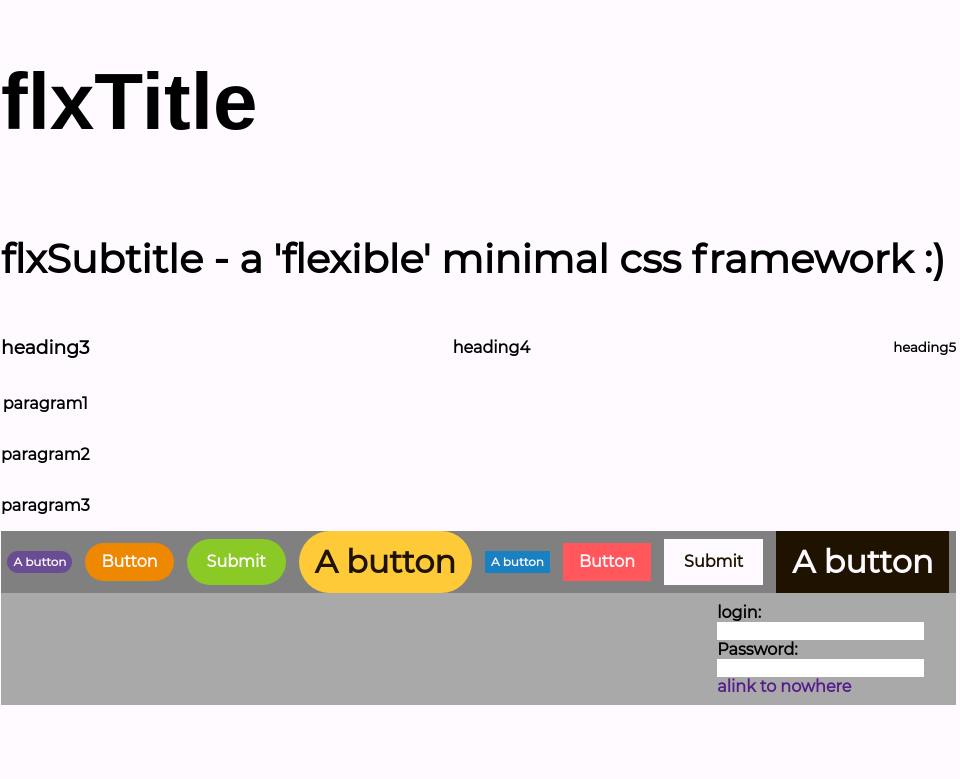
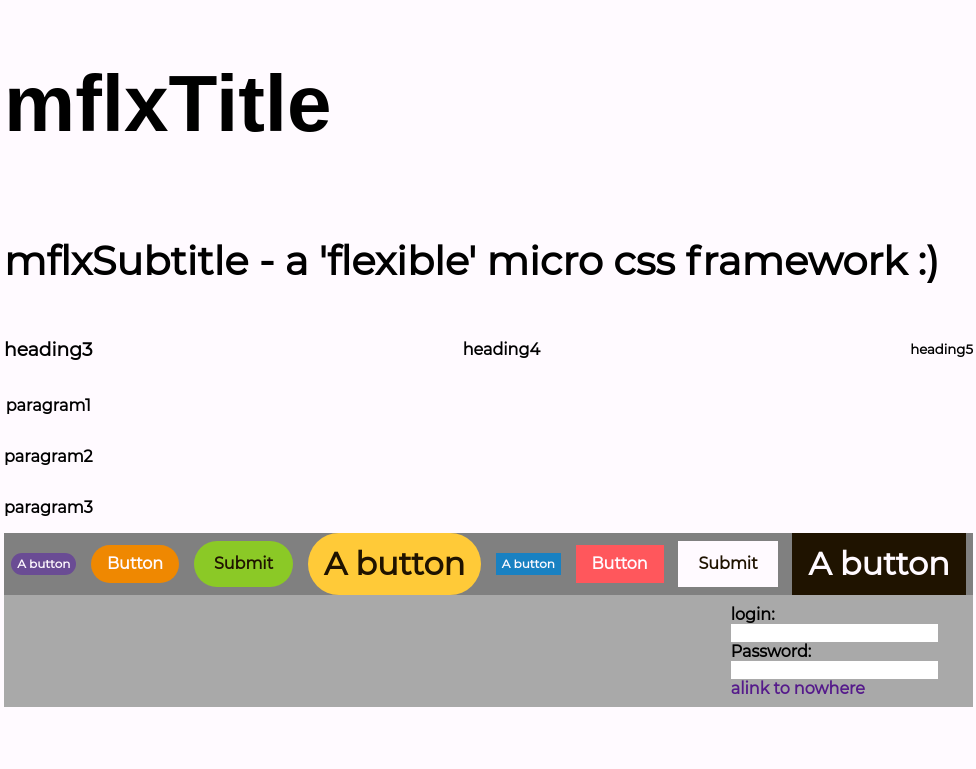
changed name to mflex for npm

diff --git a/test.html b/test.html
@@ -1,19 +1,19 @@
 <!DOCTYPE html>
 <html>
 <head>
-	<title>flx framework!</title>
+	<title>mflx framework!</title>
 	<meta charset="utf-8">
 	<style>
 @import url('https://fonts.googleapis.com/css2?family=Montserrat&display=swap');
 </style>
-	<link rel="stylesheet" type="text/css" href="css/flx.css">
+	<link rel="stylesheet" type="text/css" href="css/mflx.css">
 </head>
 <body class="white">
 	<div class="flx(wrap) space-between f-space-between is-12 ">
 		<div class="flx(wrap) space-between middle is-10 ">
 			<div class="flx(wrap,column)">
-				<h1>flxTitle</h1>
-				<h2>flxSubtitle - a 'flexible' minimal css framework :)</h2>
+				<h1>mflxTitle</h1>
+				<h2>mflxSubtitle - a 'flexible' micro css framework :)</h2>
 			</div>
 			
 			<h3>heading3</h3>

diff --git a/css/mflx.css b/css/mflx.css
@@ -283,7 +283,7 @@ a:link {
 
 .is-success {
   background-color: var(--success);
-  color: var(--white); }
+  color: var(--black); }
 
 .is-success:hover {
   background-color: #85c125; }

diff --git a/scss/mflx.scss b/scss/mflx.scss
@@ -352,7 +352,7 @@ a:link{
 }
 .is-success{
 	background-color: var(--success);
-	color: var(--white);
+	color: var(--black);
 }
 .is-success:hover{
 	background-color:darken($success,2%);

diff --git a/README.md b/README.md
@@ -1,4 +1,4 @@
-# flx version 1.1.0
+# mflx version 1.1.0
 
 ##A Basic, no-frills flexbox framework for building layouts!
 <img src="test.html#.png" alt="framework test"
